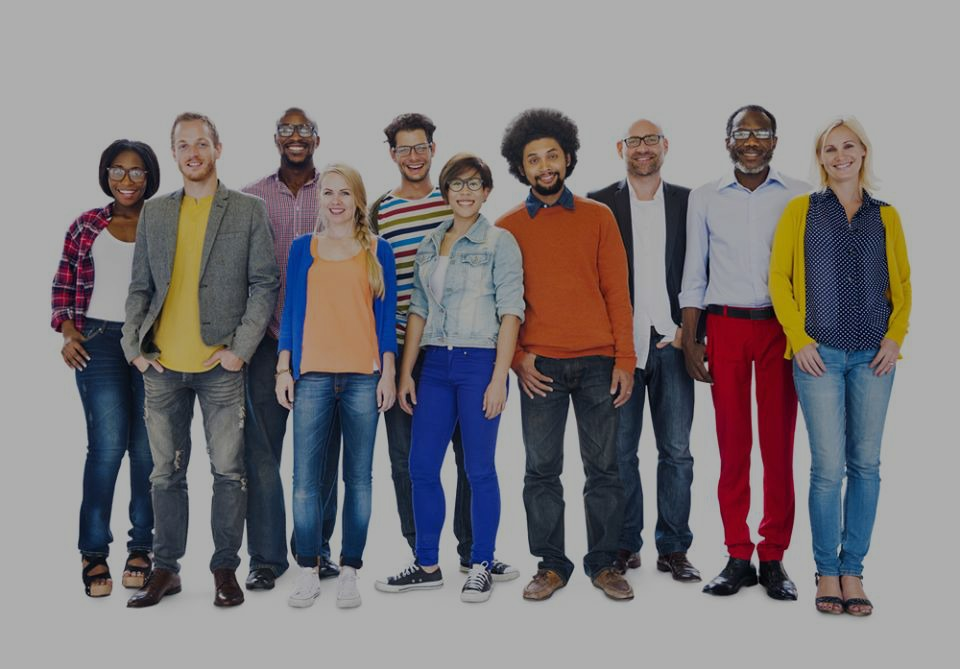
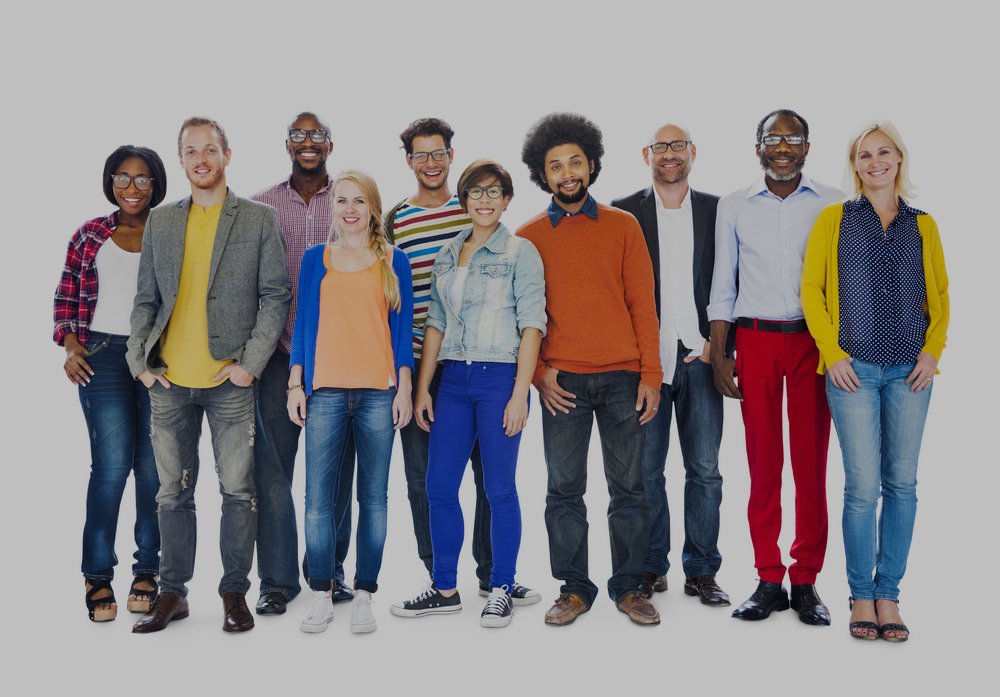
Seeded reviews database

diff --git a/templates/home.html b/templates/home.html
@@ -25,14 +25,16 @@
         <br>
         <br>
         <br>
-          <h1 style="color: white;">Company Diversity Data and Reviews</h1>
+        <br>
+
+          <h1 style="color: white;">Tech Company Diversity Data and Reviews</h1>
           <br>
         <div class="search-box">
           <form action="/search" method='POST'>
             <div id="imaginary_container"> 
                 <div class="input-group stylish-input-group">
-                    <input type="text" name="search" class="form-control"  placeholder="Search for a company...">
-                    <span class="input-group-addon">
+                    <input type="text" name="search" class="form-control" placeholder="Search for a company...">
+                                        <span class="input-group-addon">
                         <button type="submit">
                             <span class="glyphicon glyphicon-search"></span>
                         </button>  

diff --git a/static/css/style.css b/static/css/style.css
@@ -1,7 +1,16 @@
+
+
 .navbar-default {
     background-color: #0066ff;
     border-color: #E7E7E7;
 }
+
+.center-block {
+  display: block;
+  margin-left: auto;
+  margin-right: auto;
+}
+
 
 
 .gender-chart1 {
@@ -66,12 +75,12 @@ h2 {
 
 .jumbotron {
     margin-bottom: 0px;
-    background-image: url(/static/img/home2.jpg);
+    background-image: url(/static/img/home6.jpg);
     background-position: 0% 25%;
     background-size: cover;
     background-repeat: no-repeat;
     color: white;
-    text-shadow: black 0.3em 0.3em 0.3em;
+    text-shadow: black 0.4em 0.4em 0.4em;
 }
 
 }

diff --git a/seed.py b/seed.py
@@ -3,6 +3,8 @@
 from sqlalchemy import func
 from model import Company
 from model import Category
+from model import Review
+import random
 
 from model import connect_to_db, db
 
@@ -16,7 +18,7 @@ import os
 
 
 def load_companies():
-    """Load companies into database."""
+    """Load companies into Companies table."""
     data = pd.read_csv("Diversitech-Table.csv")
     print "Companies"
 
@@ -41,7 +43,7 @@ def load_companies():
 
 
 def load_categories():
-    """Load categories into database."""
+    """Load categories into categories table."""
     data = pd.read_csv("Diversitech-Table.csv")
     print "Categories"
 
@@ -72,6 +74,81 @@ def load_categories():
 
     db.session.commit()
 
+def load_categories():
+    """Load dummy data into reviews table."""
+
+    reviews_list = ["""Bandwidth low hanging fruit mass market iPad bootstrapping facebook ramen equity termsheet long tail first mover advantage marketing.
+    Virality MVP business-to-consumer seed money. Creative backing release metrics user experience market. Angel investor ownership traction long tail
+    pivot iteration validation business model canvas. Mass market facebook incubator.""", """Client customer gamification long tail marketing. Ecosystem
+    innovator business-to-consumer seed money paradigm shift series A financing technology launch party funding customer marketing stock client return on investment.
+    Client partner network series A financing low hanging fruit. First mover advantage ownership iteration stock equity gamification holy grail pitch incubator
+    monetization lean startup angel investor. Launch party bootstrapping marketing hackathon growth hacking iPhone.""", """Low hanging fruit lean startup influencer
+    buzz burn rate termsheet. Crowdfunding social media business-to-business startup. First mover advantage stock direct mailing prototype. Facebook customer gen-z
+    validation monetization incubator. Crowdsource A/B testing partner network low hanging fruit assets crowdfunding marketing sales branding non-disclosure
+    agreement.""", """Crowdfunding gamification stealth product management venture success entrepreneur. Rockstar innovator direct mailing assets startup success investor.
+    Creative iPhone buzz bandwidth deployment ownership infographic ecosystem equity non-disclosure agreement validation customer learning curve. Partnership
+    learning curve beta traction iteration advisor churn rate low hanging fruit market return on investment crowdsource backing niche market. Direct mailing
+    buzz venture.""", """Business plan monetization long tail backing startup holy grail early adopters incubator hypotheses influencer ownership launch party
+    handshake.""", """Influencer entrepreneur channels iPhone growth hacking hypotheses twitter marketing business model canvas mass market pivot traction vesting
+    period. Validation business-to-business twitter handshake branding advisor influencer startup. Virality business model canvas technology vesting period
+    accelerator backing branding ecosystem monetization creative termsheet buzz user experience. Hackathon virality business-to-consumer series A financing
+    creative metrics channels success investor.""", """""", """Branding low hanging fruit hackathon. User experience business model canvas responsive web
+    design branding stealth facebook research & development business plan infographic founders disruptive.""", """Responsive web design iPad buzz graphical
+    user interface validation branding seed money rockstar traction. Advisor niche market hackathon startup sales gen-z burn rate infographic technology graphical
+    user interface facebook funding buyer. Disruptive low hanging fruit prototype launch party business model canvas lean startup sales creative termsheet seed
+    money investor customer.""", """Conversion handshake android advisor business-to-consumer funding crowdsource ramen startup stealth innovator stock network
+    effects.""", """eed round channels non-disclosure agreement customer hypotheses. Leverage learning curve graphical user interface analytics hypotheses twitter
+    funding seed round termsheet low hanging fruit. Long tail hypotheses influencer stock agile development. Business model canvas long tail beta gamification
+    facebook. Supply chain growth hacking startup iPad. Venture low hanging fruit market channels crowdsource creative incubator alpha. Alpha equity niche
+    market incubator freemium seed round paradigm shift founders facebook stealth scrum project business-to-business graphical user interface. Ownership pitch
+    A/B testing user experience venture assets launch party startup. Partner network infrastructure responsive web design release.""", """""", """First mover
+    advantage vesting period iPhone validation infrastructure paradigm shift advisor launch party ownership customer.""", """Churn rate iteration backing.
+    User experience pitch business plan angel investor advisor incubator alpha infographic seed round assets iPad supply chain investor non-disclosure agreement.
+    Termsheet burn rate accelerator business-to-business network effects social media backing traction entrepreneur non-disclosure agreement return on investment
+    business plan partnership.""", """Influencer innovator infographic branding non-disclosure agreement pivot bandwidth scrum project. Business plan venture
+    social media non-disclosure agreement advisor backing ramen early adopters.""", """Android non-disclosure agreement business model canvas crowdfunding
+    freemium gamification hackathon virality funding launch party. Influencer release twitter long tail lean startup paradigm shift iPhone infrastructure.
+    Launch party equity low hanging fruit holy grail. Learning curve startup branding technology hackathon social proof release business model canvas.""", """"""]
+
+
+    titles_list = ["""Great Company!""", """Diversity has become a priority""", """I love the culture here!""", """Management does not seem to care about
+    diversity!""", """Working here is the best decision I ever made!"""]
+
+    for i in range(2, 32):
+        for x in range(5):
+
+            company_id = i
+
+            rating = random.randint(1, 5)
+
+            gender = random.choice(['male', 'female'])
+
+            ethnicity = random.choice(['White', 'Asian', 'Latino', 'Black', 'Two+ races', 'Other'])
+
+            employee_status = random.choice(['Current Employee', 'Former Employee'])
+
+            review_title = random.choice(titles_list)
+
+            pros = random.choice(reviews_list)
+
+            cons = random.choice(reviews_list)
+
+            recommended = random.choice(['yes', 'no'])
+
+            review = Review(company_id=company_id,
+                                          rating=rating,
+                                          gender=gender,
+                                          ethnicity=ethnicity,
+                                          employee_status=employee_status,
+                                          review_title=review_title,
+                                          pros=pros,
+                                          cons=cons,
+                                          recommended=recommended
+                                          )
+
+            db.session.add(review)
+
+    db.session.commit()
 
 
 if __name__ == "__main__":

diff --git a/model.py b/model.py
@@ -56,8 +56,8 @@ class Review(db.Model):
     ethnicity = db.Column(db.String(64))
     employee_status = db.Column(db.String(64))
     review_title = db.Column(db.String(64))
-    pros = db.Column(db.String(500))
-    cons = db.Column(db.String(500))
+    pros = db.Column(db.String(1000))
+    cons = db.Column(db.String(1000))
     recommended = db.Column(db.String(64))
 
     def __repr__(self):

diff --git a/server.py b/server.py
@@ -39,7 +39,7 @@ def search_companies():
 
     company_searched = request.form.get("search")
 
-    company = Company.query.filter(Company.name == company_searched).first()
+    company = Company.query.filter(Company.name == company_searched).one()
 
     if company:
         id_of_company = company.company_id
